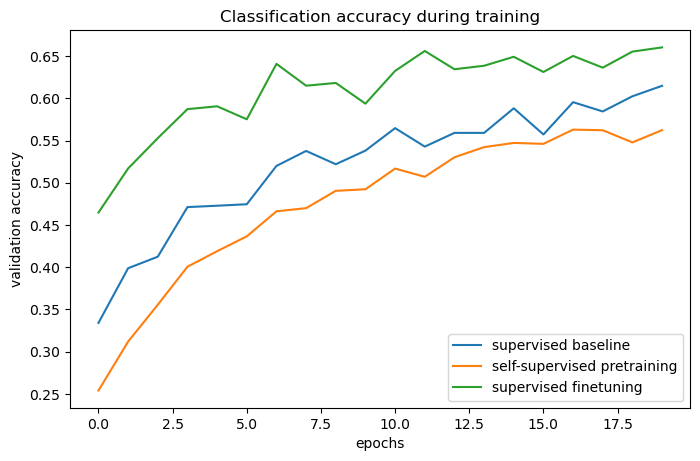
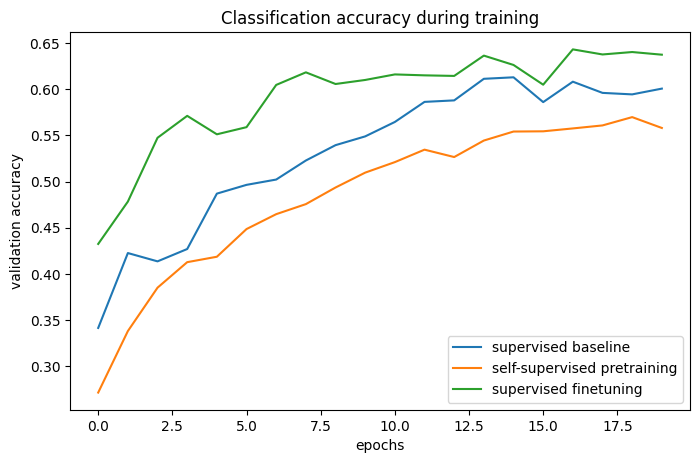
Added get_config to custom layer in vision example (#806)
* added get_config to custom layer

* replace tf.sqrt by np.sqrt

* clean up local changes

* remove copy() and blank line in get_config

* replace np.sqrt by math.sqrt + revert num epochs

* black formatting + add created files

* Update .gitignore

* remove model files

diff --git a/examples/vision/semisupervised_simclr.py b/examples/vision/semisupervised_simclr.py
@@ -65,6 +65,7 @@ check out
 ## Setup
 """
 
+import math
 import matplotlib.pyplot as plt
 import tensorflow as tf
 import tensorflow_datasets as tfds
@@ -174,6 +175,11 @@ class RandomColorAffine(layers.Layer):
         self.brightness = brightness
         self.jitter = jitter
 
+    def get_config(self):
+        config = super().get_config()
+        config.update({"brightness": self.brightness, "jitter": self.jitter})
+        return config
+
     def call(self, images, training=True):
         if training:
             batch_size = tf.shape(images)[0]
@@ -197,7 +203,7 @@ class RandomColorAffine(layers.Layer):
 
 # Image augmentation module
 def get_augmenter(min_area, brightness, jitter):
-    zoom_factor = 1.0 - tf.sqrt(min_area)
+    zoom_factor = 1.0 - math.sqrt(min_area)
     return keras.Sequential(
         [
             keras.Input(shape=(image_size, image_size, image_channels)),
@@ -285,6 +291,7 @@ baseline_model.compile(
 baseline_history = baseline_model.fit(
     labeled_train_dataset, epochs=num_epochs, validation_data=test_dataset
 )
+
 print(
     "Maximal validation accuracy: {:.2f}%".format(
         max(baseline_history.history["val_acc"]) * 100

diff --git a/examples/vision/md/semisupervised_simclr.md b/examples/vision/md/semisupervised_simclr.md
@@ -1,14 +1,15 @@
+
 # Semi-supervised image classification using contrastive pretraining with SimCLR
 
 **Author:** [András Béres](https://www.linkedin.com/in/andras-beres-789190210)<br>
 **Date created:** 2021/04/24<br>
 **Last modified:** 2021/04/24<br>
-**Description:** Contrastive pretraining with SimCLR for semi-supervised image classification on the STL-10 dataset.
 
 
 <img class="k-inline-icon" src="https://colab.research.google.com/img/colab_favicon.ico"/> [**View in Colab**](https://colab.research.google.com/github/keras-team/keras-io/blob/master/examples/vision/ipynb/semisupervised_simclr.ipynb)  <span class="k-dot">•</span><img class="k-inline-icon" src="https://github.com/favicon.ico"/> [**GitHub source**](https://github.com/keras-team/keras-io/blob/master/examples/vision/semisupervised_simclr.py)
 
 
+**Description:** Contrastive pretraining with SimCLR for semi-supervised image classification on the STL-10 dataset.
 
 ---
 ## Introduction
@@ -70,6 +71,7 @@ check out
 
 
 ```python
+import math
 import matplotlib.pyplot as plt
 import tensorflow as tf
 import tensorflow_datasets as tfds
@@ -192,6 +194,11 @@ class RandomColorAffine(layers.Layer):
         self.brightness = brightness
         self.jitter = jitter
 
+    def get_config(self):
+        config = super().get_config()
+        config.update({"brightness": self.brightness, "jitter": self.jitter})
+        return config
+
     def call(self, images, training=True):
         if training:
             batch_size = tf.shape(images)[0]
@@ -215,7 +222,7 @@ class RandomColorAffine(layers.Layer):
 
 # Image augmentation module
 def get_augmenter(min_area, brightness, jitter):
-    zoom_factor = 1.0 - tf.sqrt(min_area)
+    zoom_factor = 1.0 - math.sqrt(min_area)
     return keras.Sequential(
         [
             keras.Input(shape=(image_size, image_size, image_channels)),
@@ -259,9 +266,7 @@ visualize_augmentations(num_images=8)
 ```
 
 
-    
 ![png](/img/examples/vision/semisupervised_simclr/semisupervised_simclr_9_0.png)
-    
 
 
 ---
@@ -313,6 +318,7 @@ baseline_model.compile(
 baseline_history = baseline_model.fit(
     labeled_train_dataset, epochs=num_epochs, validation_data=test_dataset
 )
+
 print(
     "Maximal validation accuracy: {:.2f}%".format(
         max(baseline_history.history["val_acc"]) * 100
@@ -323,46 +329,46 @@ print(
 <div class="k-default-codeblock">
 ```
 Epoch 1/20
-200/200 [==============================] - 8s 26ms/step - loss: 2.1769 - acc: 0.1794 - val_loss: 1.7424 - val_acc: 0.3341
+200/200 [==============================] - 10s 35ms/step - loss: 1.9942 - acc: 0.2504 - val_loss: 1.7608 - val_acc: 0.3415
 Epoch 2/20
-200/200 [==============================] - 3s 16ms/step - loss: 1.8366 - acc: 0.3139 - val_loss: 1.6184 - val_acc: 0.3989
+200/200 [==============================] - 6s 32ms/step - loss: 1.6904 - acc: 0.3596 - val_loss: 1.5134 - val_acc: 0.4226
 Epoch 3/20
-200/200 [==============================] - 3s 16ms/step - loss: 1.6331 - acc: 0.3912 - val_loss: 1.5344 - val_acc: 0.4125
+200/200 [==============================] - 6s 32ms/step - loss: 1.5743 - acc: 0.4036 - val_loss: 1.5419 - val_acc: 0.4136
 Epoch 4/20
-200/200 [==============================] - 3s 16ms/step - loss: 1.5439 - acc: 0.4216 - val_loss: 1.4052 - val_acc: 0.4712
+200/200 [==============================] - 8s 38ms/step - loss: 1.5041 - acc: 0.4236 - val_loss: 1.5214 - val_acc: 0.4270
 Epoch 5/20
-200/200 [==============================] - 4s 17ms/step - loss: 1.4576 - acc: 0.4575 - val_loss: 1.4337 - val_acc: 0.4729
+200/200 [==============================] - 6s 31ms/step - loss: 1.4413 - acc: 0.4552 - val_loss: 1.3713 - val_acc: 0.4870
 Epoch 6/20
-200/200 [==============================] - 3s 17ms/step - loss: 1.3723 - acc: 0.4875 - val_loss: 1.4054 - val_acc: 0.4746
+200/200 [==============================] - 6s 32ms/step - loss: 1.3877 - acc: 0.4750 - val_loss: 1.3570 - val_acc: 0.4965
 Epoch 7/20
-200/200 [==============================] - 3s 17ms/step - loss: 1.3445 - acc: 0.5066 - val_loss: 1.3030 - val_acc: 0.5200
+200/200 [==============================] - 6s 32ms/step - loss: 1.3275 - acc: 0.5054 - val_loss: 1.4058 - val_acc: 0.5023
 Epoch 8/20
-200/200 [==============================] - 3s 17ms/step - loss: 1.3015 - acc: 0.5255 - val_loss: 1.2720 - val_acc: 0.5378
+200/200 [==============================] - 6s 31ms/step - loss: 1.2869 - acc: 0.5222 - val_loss: 1.3219 - val_acc: 0.5229
 Epoch 9/20
-200/200 [==============================] - 3s 16ms/step - loss: 1.2244 - acc: 0.5452 - val_loss: 1.3211 - val_acc: 0.5220
+200/200 [==============================] - 6s 31ms/step - loss: 1.2245 - acc: 0.5452 - val_loss: 1.2647 - val_acc: 0.5395
 Epoch 10/20
-200/200 [==============================] - 3s 17ms/step - loss: 1.2204 - acc: 0.5494 - val_loss: 1.2898 - val_acc: 0.5381
+200/200 [==============================] - 6s 31ms/step - loss: 1.2037 - acc: 0.5528 - val_loss: 1.2961 - val_acc: 0.5490
 Epoch 11/20
-200/200 [==============================] - 4s 17ms/step - loss: 1.1359 - acc: 0.5766 - val_loss: 1.2138 - val_acc: 0.5648
+200/200 [==============================] - 6s 32ms/step - loss: 1.1260 - acc: 0.5800 - val_loss: 1.2120 - val_acc: 0.5646
 Epoch 12/20
-200/200 [==============================] - 3s 17ms/step - loss: 1.1228 - acc: 0.5855 - val_loss: 1.2602 - val_acc: 0.5429
+200/200 [==============================] - 6s 31ms/step - loss: 1.1116 - acc: 0.5926 - val_loss: 1.1747 - val_acc: 0.5864
 Epoch 13/20
-200/200 [==============================] - 3s 17ms/step - loss: 1.0853 - acc: 0.6000 - val_loss: 1.2716 - val_acc: 0.5591
+200/200 [==============================] - 6s 31ms/step - loss: 1.0661 - acc: 0.6114 - val_loss: 1.1370 - val_acc: 0.5880
 Epoch 14/20
-200/200 [==============================] - 3s 17ms/step - loss: 1.0632 - acc: 0.6078 - val_loss: 1.2832 - val_acc: 0.5591
+200/200 [==============================] - 6s 32ms/step - loss: 1.0289 - acc: 0.6174 - val_loss: 1.1261 - val_acc: 0.6114
 Epoch 15/20
-200/200 [==============================] - 3s 16ms/step - loss: 1.0268 - acc: 0.6157 - val_loss: 1.1712 - val_acc: 0.5882
+200/200 [==============================] - 6s 31ms/step - loss: 0.9928 - acc: 0.6394 - val_loss: 1.1197 - val_acc: 0.6130
 Epoch 16/20
-200/200 [==============================] - 3s 17ms/step - loss: 0.9594 - acc: 0.6440 - val_loss: 1.2904 - val_acc: 0.5573
+200/200 [==============================] - 6s 31ms/step - loss: 0.9547 - acc: 0.6478 - val_loss: 1.1975 - val_acc: 0.5861
 Epoch 17/20
-200/200 [==============================] - 3s 17ms/step - loss: 0.9524 - acc: 0.6517 - val_loss: 1.1854 - val_acc: 0.5955
+200/200 [==============================] - 6s 31ms/step - loss: 0.9152 - acc: 0.6632 - val_loss: 1.1420 - val_acc: 0.6083
 Epoch 18/20
-200/200 [==============================] - 3s 17ms/step - loss: 0.9118 - acc: 0.6672 - val_loss: 1.1974 - val_acc: 0.5845
+200/200 [==============================] - 6s 31ms/step - loss: 0.8854 - acc: 0.6772 - val_loss: 1.1939 - val_acc: 0.5961
 Epoch 19/20
-200/200 [==============================] - 3s 17ms/step - loss: 0.9187 - acc: 0.6686 - val_loss: 1.1703 - val_acc: 0.6025
+200/200 [==============================] - 6s 32ms/step - loss: 0.8509 - acc: 0.6888 - val_loss: 1.1995 - val_acc: 0.5945
 Epoch 20/20
-200/200 [==============================] - 3s 17ms/step - loss: 0.8520 - acc: 0.6911 - val_loss: 1.1312 - val_acc: 0.6149
-Maximal validation accuracy: 61.49%
+200/200 [==============================] - 6s 32ms/step - loss: 0.8204 - acc: 0.7010 - val_loss: 1.2001 - val_acc: 0.6008
+Maximal validation accuracy: 61.30%
 
 ```
 </div>
@@ -576,19 +582,20 @@ print(
 ```
 Model: "encoder"
 _________________________________________________________________
-Layer (type)                 Output Shape              Param #   
+ Layer (type)                Output Shape              Param #   
 =================================================================
-conv2d_4 (Conv2D)            (None, 47, 47, 128)       3584      
-_________________________________________________________________
-conv2d_5 (Conv2D)            (None, 23, 23, 128)       147584    
-_________________________________________________________________
-conv2d_6 (Conv2D)            (None, 11, 11, 128)       147584    
-_________________________________________________________________
-conv2d_7 (Conv2D)            (None, 5, 5, 128)         147584    
-_________________________________________________________________
-flatten_1 (Flatten)          (None, 3200)              0         
-_________________________________________________________________
-dense_2 (Dense)              (None, 128)               409728    
+ conv2d_4 (Conv2D)           (None, 47, 47, 128)       3584      
+                                                                 
+ conv2d_5 (Conv2D)           (None, 23, 23, 128)       147584    
+                                                                 
+ conv2d_6 (Conv2D)           (None, 11, 11, 128)       147584    
+                                                                 
+ conv2d_7 (Conv2D)           (None, 5, 5, 128)         147584    
+                                                                 
+ flatten_1 (Flatten)         (None, 3200)              0         
+                                                                 
+ dense_2 (Dense)             (None, 128)               409728    
+                                                                 
 =================================================================
 Total params: 856,064
 Trainable params: 856,064
@@ -596,11 +603,12 @@ Non-trainable params: 0
 _________________________________________________________________
 Model: "projection_head"
 _________________________________________________________________
-Layer (type)                 Output Shape              Param #   
+ Layer (type)                Output Shape              Param #   
 =================================================================
-dense_3 (Dense)              (None, 128)               16512     
-_________________________________________________________________
-dense_4 (Dense)              (None, 128)               16512     
+ dense_3 (Dense)             (None, 128)               16512     
+                                                                 
+ dense_4 (Dense)             (None, 128)               16512     
+                                                                 
 =================================================================
 Total params: 33,024
 Trainable params: 33,024
@@ -608,55 +616,56 @@ Non-trainable params: 0
 _________________________________________________________________
 Model: "linear_probe"
 _________________________________________________________________
-Layer (type)                 Output Shape              Param #   
+ Layer (type)                Output Shape              Param #   
 =================================================================
-dense_5 (Dense)              (None, 10)                1290      
+ dense_5 (Dense)             (None, 10)                1290      
+                                                                 
 =================================================================
 Total params: 1,290
 Trainable params: 1,290
 Non-trainable params: 0
 _________________________________________________________________
 Epoch 1/20
-200/200 [==============================] - 70s 325ms/step - c_loss: 4.7788 - c_acc: 0.1340 - p_loss: 2.2030 - p_acc: 0.1922 - val_p_loss: 2.1043 - val_p_acc: 0.2540
+200/200 [==============================] - 78s 351ms/step - c_loss: 4.7738 - c_acc: 0.1325 - p_loss: 2.2129 - p_acc: 0.1948 - val_p_loss: 2.1044 - val_p_acc: 0.2715
 Epoch 2/20
-200/200 [==============================] - 67s 323ms/step - c_loss: 3.4836 - c_acc: 0.3047 - p_loss: 2.0159 - p_acc: 0.3030 - val_p_loss: 1.9833 - val_p_acc: 0.3120
+200/200 [==============================] - 74s 356ms/step - c_loss: 3.4446 - c_acc: 0.3121 - p_loss: 2.0168 - p_acc: 0.3172 - val_p_loss: 1.9549 - val_p_acc: 0.3381
 Epoch 3/20
-200/200 [==============================] - 65s 322ms/step - c_loss: 2.9157 - c_acc: 0.4187 - p_loss: 1.8896 - p_acc: 0.3598 - val_p_loss: 1.8621 - val_p_acc: 0.3556
+200/200 [==============================] - 74s 359ms/step - c_loss: 2.8370 - c_acc: 0.4337 - p_loss: 1.8755 - p_acc: 0.3618 - val_p_loss: 1.7926 - val_p_acc: 0.3851
 Epoch 4/20
-200/200 [==============================] - 67s 322ms/step - c_loss: 2.5837 - c_acc: 0.4867 - p_loss: 1.7965 - p_acc: 0.3912 - val_p_loss: 1.7400 - val_p_acc: 0.4006
+200/200 [==============================] - 74s 359ms/step - c_loss: 2.4706 - c_acc: 0.5155 - p_loss: 1.7547 - p_acc: 0.3900 - val_p_loss: 1.7162 - val_p_acc: 0.4128
 Epoch 5/20
-200/200 [==============================] - 67s 322ms/step - c_loss: 2.3462 - c_acc: 0.5403 - p_loss: 1.6961 - p_acc: 0.4138 - val_p_loss: 1.6655 - val_p_acc: 0.4190
+200/200 [==============================] - 75s 360ms/step - c_loss: 2.2684 - c_acc: 0.5577 - p_loss: 1.6849 - p_acc: 0.4024 - val_p_loss: 1.6552 - val_p_acc: 0.4186
 Epoch 6/20
-200/200 [==============================] - 65s 321ms/step - c_loss: 2.2214 - c_acc: 0.5714 - p_loss: 1.6325 - p_acc: 0.4322 - val_p_loss: 1.6242 - val_p_acc: 0.4366
+200/200 [==============================] - 75s 361ms/step - c_loss: 2.1079 - c_acc: 0.5954 - p_loss: 1.6162 - p_acc: 0.4254 - val_p_loss: 1.5699 - val_p_acc: 0.4486
 Epoch 7/20
-200/200 [==============================] - 67s 322ms/step - c_loss: 2.0618 - c_acc: 0.6098 - p_loss: 1.5793 - p_acc: 0.4470 - val_p_loss: 1.5348 - val_p_acc: 0.4663
+200/200 [==============================] - 74s 360ms/step - c_loss: 1.9850 - c_acc: 0.6251 - p_loss: 1.5559 - p_acc: 0.4438 - val_p_loss: 1.5412 - val_p_acc: 0.4647
 Epoch 8/20
-200/200 [==============================] - 65s 322ms/step - c_loss: 1.9532 - c_acc: 0.6360 - p_loss: 1.5173 - p_acc: 0.4652 - val_p_loss: 1.5248 - val_p_acc: 0.4700
+200/200 [==============================] - 74s 360ms/step - c_loss: 1.8847 - c_acc: 0.6530 - p_loss: 1.5100 - p_acc: 0.4582 - val_p_loss: 1.5025 - val_p_acc: 0.4756
 Epoch 9/20
-200/200 [==============================] - 65s 322ms/step - c_loss: 1.8487 - c_acc: 0.6602 - p_loss: 1.4631 - p_acc: 0.4798 - val_p_loss: 1.4587 - val_p_acc: 0.4905
+200/200 [==============================] - 75s 361ms/step - c_loss: 1.7894 - c_acc: 0.6751 - p_loss: 1.4629 - p_acc: 0.4660 - val_p_loss: 1.4549 - val_p_acc: 0.4936
 Epoch 10/20
-200/200 [==============================] - 65s 322ms/step - c_loss: 1.7837 - c_acc: 0.6767 - p_loss: 1.4310 - p_acc: 0.4992 - val_p_loss: 1.4265 - val_p_acc: 0.4924
+200/200 [==============================] - 75s 361ms/step - c_loss: 1.7296 - c_acc: 0.6896 - p_loss: 1.4173 - p_acc: 0.4962 - val_p_loss: 1.4178 - val_p_acc: 0.5098
 Epoch 11/20
-200/200 [==============================] - 65s 321ms/step - c_loss: 1.7133 - c_acc: 0.6955 - p_loss: 1.3764 - p_acc: 0.5090 - val_p_loss: 1.3663 - val_p_acc: 0.5169
+200/200 [==============================] - 75s 366ms/step - c_loss: 1.6714 - c_acc: 0.7055 - p_loss: 1.3866 - p_acc: 0.4958 - val_p_loss: 1.3773 - val_p_acc: 0.5211
 Epoch 12/20
-200/200 [==============================] - 66s 322ms/step - c_loss: 1.6655 - c_acc: 0.7064 - p_loss: 1.3511 - p_acc: 0.5140 - val_p_loss: 1.3779 - val_p_acc: 0.5071
+200/200 [==============================] - 76s 366ms/step - c_loss: 1.6064 - c_acc: 0.7214 - p_loss: 1.3629 - p_acc: 0.5100 - val_p_loss: 1.3487 - val_p_acc: 0.5346
 Epoch 13/20
-200/200 [==============================] - 67s 322ms/step - c_loss: 1.6110 - c_acc: 0.7198 - p_loss: 1.3182 - p_acc: 0.5282 - val_p_loss: 1.3259 - val_p_acc: 0.5303
+200/200 [==============================] - 76s 367ms/step - c_loss: 1.5741 - c_acc: 0.7285 - p_loss: 1.3316 - p_acc: 0.5250 - val_p_loss: 1.3418 - val_p_acc: 0.5266
 Epoch 14/20
-200/200 [==============================] - 66s 321ms/step - c_loss: 1.5727 - c_acc: 0.7312 - p_loss: 1.2965 - p_acc: 0.5308 - val_p_loss: 1.2858 - val_p_acc: 0.5422
+200/200 [==============================] - 76s 366ms/step - c_loss: 1.5259 - c_acc: 0.7405 - p_loss: 1.3048 - p_acc: 0.5346 - val_p_loss: 1.3027 - val_p_acc: 0.5445
 Epoch 15/20
-200/200 [==============================] - 67s 322ms/step - c_loss: 1.5477 - c_acc: 0.7361 - p_loss: 1.2751 - p_acc: 0.5432 - val_p_loss: 1.2795 - val_p_acc: 0.5472
+200/200 [==============================] - 75s 366ms/step - c_loss: 1.5058 - c_acc: 0.7463 - p_loss: 1.2829 - p_acc: 0.5420 - val_p_loss: 1.2771 - val_p_acc: 0.5543
 Epoch 16/20
-200/200 [==============================] - 65s 321ms/step - c_loss: 1.5127 - c_acc: 0.7448 - p_loss: 1.2562 - p_acc: 0.5498 - val_p_loss: 1.2731 - val_p_acc: 0.5461
+200/200 [==============================] - 75s 365ms/step - c_loss: 1.4728 - c_acc: 0.7556 - p_loss: 1.2647 - p_acc: 0.5404 - val_p_loss: 1.2674 - val_p_acc: 0.5545
 Epoch 17/20
-200/200 [==============================] - 67s 321ms/step - c_loss: 1.4811 - c_acc: 0.7517 - p_loss: 1.2306 - p_acc: 0.5574 - val_p_loss: 1.2439 - val_p_acc: 0.5630
+200/200 [==============================] - 76s 366ms/step - c_loss: 1.4453 - c_acc: 0.7602 - p_loss: 1.2468 - p_acc: 0.5508 - val_p_loss: 1.2608 - val_p_acc: 0.5576
 Epoch 18/20
-200/200 [==============================] - 67s 321ms/step - c_loss: 1.4598 - c_acc: 0.7576 - p_loss: 1.2215 - p_acc: 0.5544 - val_p_loss: 1.2352 - val_p_acc: 0.5623
+200/200 [==============================] - 76s 367ms/step - c_loss: 1.4329 - c_acc: 0.7639 - p_loss: 1.2306 - p_acc: 0.5570 - val_p_loss: 1.2532 - val_p_acc: 0.5609
 Epoch 19/20
-200/200 [==============================] - 65s 321ms/step - c_loss: 1.4349 - c_acc: 0.7631 - p_loss: 1.2161 - p_acc: 0.5662 - val_p_loss: 1.2670 - val_p_acc: 0.5479
+200/200 [==============================] - 75s 365ms/step - c_loss: 1.3956 - c_acc: 0.7739 - p_loss: 1.2142 - p_acc: 0.5668 - val_p_loss: 1.2316 - val_p_acc: 0.5699
 Epoch 20/20
-200/200 [==============================] - 66s 321ms/step - c_loss: 1.4159 - c_acc: 0.7691 - p_loss: 1.2044 - p_acc: 0.5656 - val_p_loss: 1.2204 - val_p_acc: 0.5624
-Maximal validation accuracy: 56.30%
+200/200 [==============================] - 76s 365ms/step - c_loss: 1.3884 - c_acc: 0.7754 - p_loss: 1.2035 - p_acc: 0.5712 - val_p_loss: 1.2434 - val_p_acc: 0.5581
+Maximal validation accuracy: 56.99%
 
 ```
 </div>
@@ -697,46 +706,46 @@ print(
 <div class="k-default-codeblock">
 ```
 Epoch 1/20
-200/200 [==============================] - 4s 17ms/step - loss: 1.9942 - acc: 0.2554 - val_loss: 1.4278 - val_acc: 0.4647
+200/200 [==============================] - 7s 32ms/step - loss: 1.8208 - acc: 0.3048 - val_loss: 1.5010 - val_acc: 0.4325
 Epoch 2/20
-200/200 [==============================] - 3s 16ms/step - loss: 1.5209 - acc: 0.4373 - val_loss: 1.3119 - val_acc: 0.5170
+200/200 [==============================] - 6s 31ms/step - loss: 1.5208 - acc: 0.4252 - val_loss: 1.3965 - val_acc: 0.4784
 Epoch 3/20
-200/200 [==============================] - 3s 17ms/step - loss: 1.3210 - acc: 0.5132 - val_loss: 1.2328 - val_acc: 0.5529
+200/200 [==============================] - 6s 31ms/step - loss: 1.3795 - acc: 0.4868 - val_loss: 1.2335 - val_acc: 0.5475
 Epoch 4/20
-200/200 [==============================] - 3s 17ms/step - loss: 1.1932 - acc: 0.5603 - val_loss: 1.1328 - val_acc: 0.5872
+200/200 [==============================] - 6s 31ms/step - loss: 1.2590 - acc: 0.5290 - val_loss: 1.1732 - val_acc: 0.5713
 Epoch 5/20
-200/200 [==============================] - 3s 17ms/step - loss: 1.1217 - acc: 0.5984 - val_loss: 1.1508 - val_acc: 0.5906
+200/200 [==============================] - 6s 31ms/step - loss: 1.1687 - acc: 0.5808 - val_loss: 1.2530 - val_acc: 0.5512
 Epoch 6/20
-200/200 [==============================] - 3s 16ms/step - loss: 1.0665 - acc: 0.6176 - val_loss: 1.2544 - val_acc: 0.5753
+200/200 [==============================] - 6s 32ms/step - loss: 1.1291 - acc: 0.5908 - val_loss: 1.1944 - val_acc: 0.5590
 Epoch 7/20
-200/200 [==============================] - 3s 16ms/step - loss: 0.9890 - acc: 0.6510 - val_loss: 1.0107 - val_acc: 0.6409
+200/200 [==============================] - 7s 32ms/step - loss: 1.0532 - acc: 0.6224 - val_loss: 1.1253 - val_acc: 0.6047
 Epoch 8/20
-200/200 [==============================] - 3s 16ms/step - loss: 0.9775 - acc: 0.6468 - val_loss: 1.0907 - val_acc: 0.6150
+200/200 [==============================] - 6s 32ms/step - loss: 1.0252 - acc: 0.6320 - val_loss: 1.0724 - val_acc: 0.6184
 Epoch 9/20
-200/200 [==============================] - 3s 17ms/step - loss: 0.9105 - acc: 0.6736 - val_loss: 1.1057 - val_acc: 0.6183
+200/200 [==============================] - 6s 31ms/step - loss: 0.9655 - acc: 0.6472 - val_loss: 1.0953 - val_acc: 0.6058
 Epoch 10/20
-200/200 [==============================] - 3s 17ms/step - loss: 0.8658 - acc: 0.6895 - val_loss: 1.1794 - val_acc: 0.5938
+200/200 [==============================] - 6s 31ms/step - loss: 0.9129 - acc: 0.6770 - val_loss: 1.1282 - val_acc: 0.6101
 Epoch 11/20
-200/200 [==============================] - 3s 17ms/step - loss: 0.8503 - acc: 0.6946 - val_loss: 1.0764 - val_acc: 0.6325
+200/200 [==============================] - 6s 31ms/step - loss: 0.8936 - acc: 0.6784 - val_loss: 1.1210 - val_acc: 0.6161
 Epoch 12/20
-200/200 [==============================] - 3s 17ms/step - loss: 0.7973 - acc: 0.7193 - val_loss: 1.0065 - val_acc: 0.6561
+200/200 [==============================] - 6s 31ms/step - loss: 0.8765 - acc: 0.6844 - val_loss: 1.1439 - val_acc: 0.6151
 Epoch 13/20
-200/200 [==============================] - 3s 16ms/step - loss: 0.7516 - acc: 0.7319 - val_loss: 1.0955 - val_acc: 0.6345
+200/200 [==============================] - 6s 32ms/step - loss: 0.8346 - acc: 0.6938 - val_loss: 1.1191 - val_acc: 0.6145
 Epoch 14/20
-200/200 [==============================] - 3s 16ms/step - loss: 0.7504 - acc: 0.7406 - val_loss: 1.1041 - val_acc: 0.6386
+200/200 [==============================] - 6s 32ms/step - loss: 0.8070 - acc: 0.7132 - val_loss: 1.1142 - val_acc: 0.6365
 Epoch 15/20
-200/200 [==============================] - 3s 16ms/step - loss: 0.7419 - acc: 0.7324 - val_loss: 1.0680 - val_acc: 0.6492
+200/200 [==============================] - 6s 32ms/step - loss: 0.7815 - acc: 0.7138 - val_loss: 1.1276 - val_acc: 0.6264
 Epoch 16/20
-200/200 [==============================] - 3s 17ms/step - loss: 0.7318 - acc: 0.7265 - val_loss: 1.1635 - val_acc: 0.6313
+200/200 [==============================] - 6s 31ms/step - loss: 0.7690 - acc: 0.7272 - val_loss: 1.1822 - val_acc: 0.6050
 Epoch 17/20
-200/200 [==============================] - 3s 17ms/step - loss: 0.6904 - acc: 0.7505 - val_loss: 1.0826 - val_acc: 0.6503
+200/200 [==============================] - 6s 32ms/step - loss: 0.7183 - acc: 0.7372 - val_loss: 1.0553 - val_acc: 0.6432
 Epoch 18/20
-200/200 [==============================] - 3s 17ms/step - loss: 0.6389 - acc: 0.7714 - val_loss: 1.1260 - val_acc: 0.6364
+200/200 [==============================] - 6s 31ms/step - loss: 0.7241 - acc: 0.7420 - val_loss: 1.0884 - val_acc: 0.6378
 Epoch 19/20
-200/200 [==============================] - 3s 16ms/step - loss: 0.6355 - acc: 0.7829 - val_loss: 1.0750 - val_acc: 0.6554
+200/200 [==============================] - 6s 31ms/step - loss: 0.6731 - acc: 0.7562 - val_loss: 1.1205 - val_acc: 0.6404
 Epoch 20/20
-200/200 [==============================] - 3s 17ms/step - loss: 0.6279 - acc: 0.7758 - val_loss: 1.0465 - val_acc: 0.6604
-Maximal validation accuracy: 66.04%
+200/200 [==============================] - 6s 31ms/step - loss: 0.6454 - acc: 0.7650 - val_loss: 1.0984 - val_acc: 0.6375
+Maximal validation accuracy: 64.32%
 
 ```
 </div>
@@ -771,15 +780,11 @@ plot_training_curves(pretraining_history, finetuning_history, baseline_history)
 ```
 
 
-    
 ![png](/img/examples/vision/semisupervised_simclr/semisupervised_simclr_19_0.png)
-    
 
 
 
-    
 ![png](/img/examples/vision/semisupervised_simclr/semisupervised_simclr_19_1.png)
-    
 
 
 By comparing the training curves, we can see that when using contrastive
